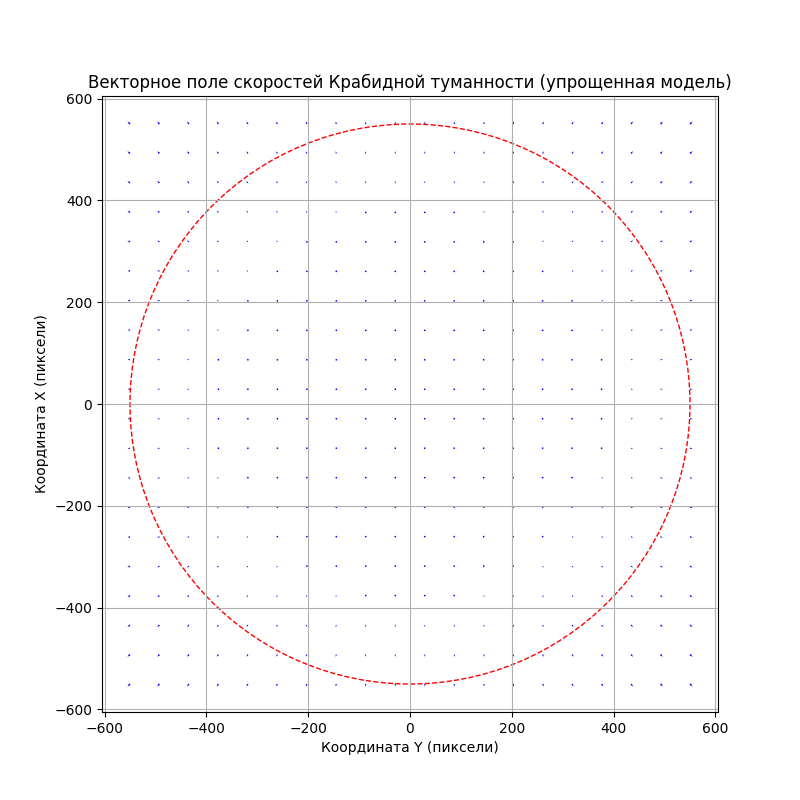
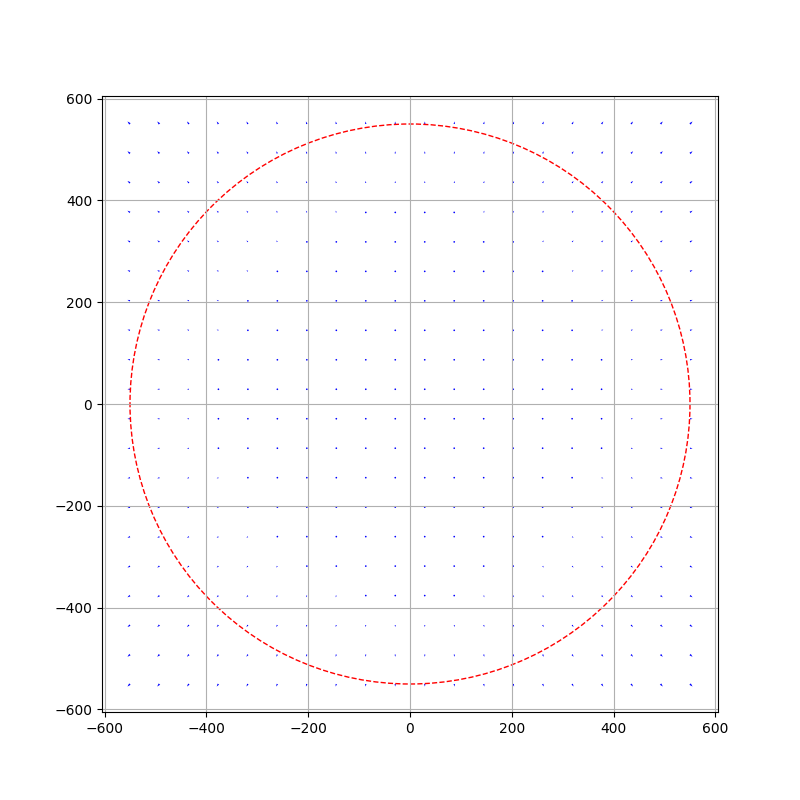
какой же бред ((

diff --git a/my_project_stage_4/my_nebula_vector_litweb.py b/my_project_stage_4/my_nebula_vector_litweb.py
@@ -14,7 +14,6 @@ S_Y_PIX = 100
 R_PIX = R_S_Y * S_Y_PIX
 print(f"Радиус туманности в пикселях (при масштабе {S_Y_PIX} пикселей/световой год): {R_PIX} пикселей")
 
-
 x_coords = np.linspace(-R_PIX, R_PIX, 20)
 y_coords = np.linspace(-R_PIX, R_PIX, 20)
 x, y = np.meshgrid(x_coords, y_coords)
@@ -22,11 +21,9 @@ x, y = np.meshgrid(x_coords, y_coords)
 r = np.sqrt(x**2 + y**2)
 r[r == 0] = 1e-6
 
-
 max_v_pix = 5
 u = x / r * (max_v_pix * (r / R_PIX))
 v = y / r * (max_v_pix * (r / R_PIX))
-
 
 plt.figure(figsize=(8, 8))
 plt.quiver(x, y, u, v, angles='xy', scale_units='xy', scale=1, color='blue')
@@ -34,12 +31,8 @@ plt.quiver(x, y, u, v, angles='xy', scale_units='xy', scale=1, color='blue')
 circle = plt.Circle((0, 0), R_PIX, color='red', fill=False, linestyle='--', linewidth=1)
 plt.gca().add_patch(circle)
 
-plt.title(f'Векторное поле скоростей Крабидной туманности (упрощенная модель)')
-plt.xlabel('Координата Y (пиксели)')
-plt.ylabel('Координата X (пиксели)')
 plt.xlim([-R_PIX * 1.1, R_PIX * 1.1])
 plt.ylim([-R_PIX * 1.1, R_PIX * 1.1])
 plt.gca().set_aspect('equal', adjustable='box')
 plt.grid(True)
 plt.savefig("crab_nebula_velocity_field.png")
-plt.show()

diff --git a/my_project_stage_4/slide_4_vector_fields.py b/my_project_stage_4/slide_4_vector_fields.py
@@ -1,12 +1,7 @@
 import numpy as np
 import matplotlib.pyplot as plt
 
-plt.arrow(0, 0, 4, 4, width=0.02)
-plt.savefig("vector.png")
-plt.close()
-
-x, y = np.meshgrid(np.linspace(-5, 5, 10), np.linspace(-5, 5, 10))
-
+x, y = np.meshgrid(np.linspace(-600, 600, 10), np.linspace(-600, 600, 10))
 
 u = x / np.sqrt(x**2 + y**2)
 v = y / np.sqrt(x**2 + y**2)
@@ -14,5 +9,5 @@ plt.quiver(x, y, u, v, angles='xy', scale_units='xy')
 plt.title('Векторное поле скоростей, v = {y/r, x/r} м/с')
 plt.ylabel('Координата Х, м')
 plt.xlabel('Координата Y, м')
-plt.savefig("vector_field_2.png")
+plt.savefig("ield_2.png")
 

diff --git a/my_project_stage_4/crab_nebula_vector.py b/my_project_stage_4/crab_nebula_vector.py
@@ -104,7 +104,7 @@ plt.close()
 x = np.array(x_gas)
 y = np.array(y_gas)
 
-u = x / np.sqrt(x**2 + y**2) + 200
+u = x / np.sqrt(x**2 + y**2) + 800
 v = y / np.sqrt(x**2 + y**2) 
 print(u)
 plt.quiver(x, y, u, v, angles='xy', scale_units='xy')

diff --git a/my_project_stage_3/my_nebula.py b/my_project_stage_3/my_nebula.py
@@ -60,10 +60,6 @@ x = np.append(x, coords[0] - 50)
 y = np.append(y, coords[1] + 5)
 
 
-
-
-
-
 coords = circle(50, 230, 410, np.pi/np.pi+0.01, 2*np.pi-np.pi/1.3, 0.1)
 x = np.append(x, coords[0] - 50)
 y = np.append(y, coords[1] + 5)
